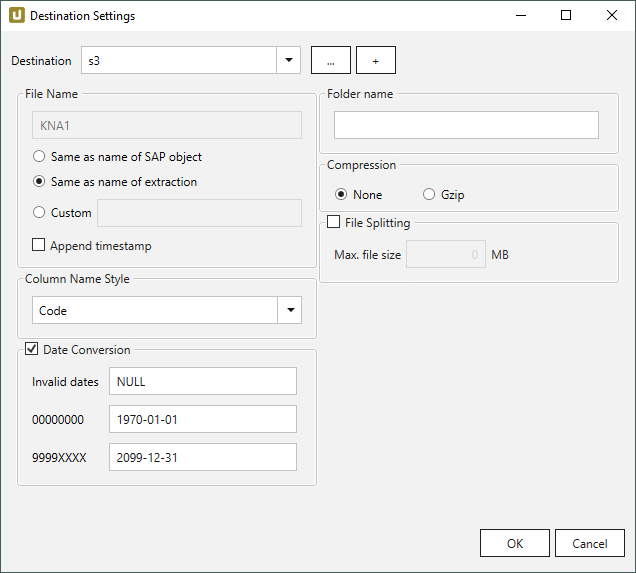
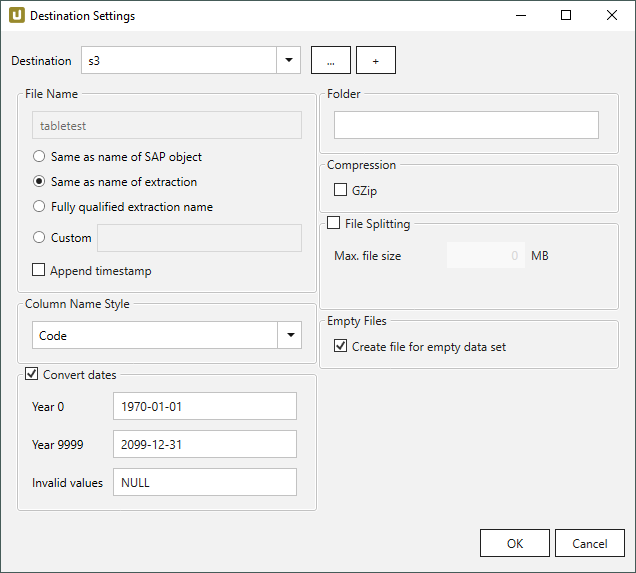
XU cloud destination now have empty files option

diff --git a/projects/xtract-universal/docs/documentation/destinations/azure-storage.md b/projects/xtract-universal/docs/documentation/destinations/azure-storage.md
@@ -292,12 +292,18 @@ Subfolders are supported and can be defined using the following syntax: `[folder
 
 {% include "destinations/file-splitting.md" %}
 
+{% include "destinations/empty-files.md" %}
+
+<!--
+### Common Data Model (preview)
 	
 #### Entity name
 Enter a name for the generated .cdm.json file.
 
 #### Manifest
 Enter the name of your manifest file.
+
+-->
 
 ## Tutorial
 

diff --git a/includes/destinations/compression.md b/includes/destinations/compression.md
@@ -2,7 +2,7 @@
 
 Compression is only available for the csv file format, see [Destination Details: File Format](#file-format).
 
-{% if page.meta.destination != "azure" and page.meta.destination != "huawei" %}
+{% if page.meta.destination == "google" %}
 
 | Option | Description |
 |--------|-------------|

diff --git a/projects/xtract-universal/docs/documentation/destinations/huawei.md b/projects/xtract-universal/docs/documentation/destinations/huawei.md
@@ -106,3 +106,5 @@ Subfolders are supported and can be defined using the following syntax: `[folder
 {% include "destinations/compression.md" %}
 
 {% include "destinations/file-splitting.md" %}
+
+{% include "destinations/empty-files.md" %}

diff --git a/projects/xtract-universal/docs/documentation/destinations/amazon-aws-s3.md b/projects/xtract-universal/docs/documentation/destinations/amazon-aws-s3.md
@@ -175,6 +175,8 @@ Subfolders are supported and can be defined using the following syntax: <br>
 
 {% include "destinations/file-splitting.md" %}
 
+{% include "destinations/empty-files.md" %}
+
 ****
 
 ## Related Links

diff --git a/includes/destinations/empty-files.md b/includes/destinations/empty-files.md
@@ -1,0 +1,5 @@
+
+### Empty Files
+
+If this option is active, empty result sets create an empty file in the target environment. 
+Deactivate this option to not create empty files.

diff --git a/projects/xtract-universal/docs/documentation/destinations/google-cloud-storage.md b/projects/xtract-universal/docs/documentation/destinations/google-cloud-storage.md
@@ -1,6 +1,7 @@
 ---
 title: Google Cloud Storage
 description: Write SAP data to a Google Cloud Storage destination
+destination: google
 attempt: eight
 ---
 
